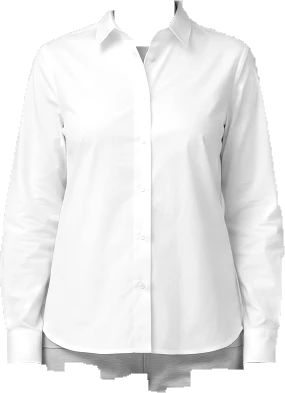
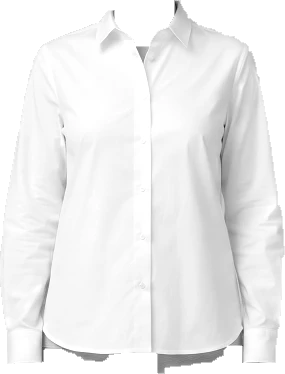
Personage: shirt piept onder trui of hoodie uit; restje basisshirt krijgt de kleur van de broek; strakkere lagen vrouw

diff --git a/js/personage.js b/js/personage.js
@@ -75,6 +75,33 @@ async function composePersonage(parts) {
     g.drawImage(await layerImg(set, 'shorts'), pos.x - v.x, pos.y - v.y);
     g.globalCompositeOperation = 'source-over';
   }
+  // Het grijze shirt van de basis kan langer zijn dan een trui of top. Wat ervan overblijft tussen
+  // de zoom en de broek krijgt de kleur van de broek, rok of jurk (zoals een tailleband).
+  const lower = list.find(l => l.slot === 'full') || list.find(l => l.slot === 'bottom');
+  if (lower) {
+    const tee = await baseTee(set);
+    if (tee) {
+      // alleen zo breed als de broek (of jurk) bovenaan is, anders lijkt het een rokje over de broek
+      const p = manifest.layers[lower.name];
+      const top = await layerTops(set, lower.name);
+      g.save();
+      g.beginPath();
+      g.rect(top.left - v.x, 0, top.right - top.left + 1, v.h);
+      g.clip();
+      g.drawImage(colorize(tee, tee, lower.color), 0, 0);
+      g.restore();
+      // wat van het basisshirt buiten de broek valt, weg (daar is achtergrond)
+      g.save();
+      g.beginPath();
+      g.rect(0, p.y - v.y - 40, top.left - v.x, 140);
+      g.rect(top.right - v.x + 1, p.y - v.y - 40, v.w, 140);
+      g.clip();
+      g.globalCompositeOperation = 'destination-out';
+      g.drawImage(tee, 0, 0);
+      g.restore();
+    }
+  }
+  const colored = {}; // per plek het ingekleurde stuk, voor het randje shirt onder de trui
   for (const l of list) {
     const img = await layerImg(set, l.name);
     const pos = manifest.layers[l.name];
@@ -96,10 +123,129 @@ async function composePersonage(parts) {
     tg.globalCompositeOperation = 'destination-in';
     tg.drawImage(img, 0, 0);
     g.drawImage(t, pos.x - v.x, pos.y - v.y);
+    colored[l.slot] = { canvas: t, name: l.name, pos };
+    // Shirt onder een trui, hoodie of vest: een randje laten uitpiepen onder de zoom.
+    if (l.slot === 'mid' && colored.base) await drawHemPeek(g, set, v, colored.base, colored.mid);
   }
   if (personageCache.size > 40) personageCache.delete(personageCache.keys().next().value);
   personageCache.set(key, c);
   return c;
+}
+
+// Een witte (grijs-witte) laag inkleuren: stof × kleur, met de plooien behouden.
+function colorize(img, shape, color) {
+  const t = document.createElement('canvas');
+  t.width = img.width; t.height = img.height;
+  const tg = t.getContext('2d');
+  tg.drawImage(img, 0, 0);
+  tg.globalCompositeOperation = 'multiply';
+  tg.fillStyle = color;
+  tg.fillRect(0, 0, t.width, t.height);
+  tg.globalCompositeOperation = 'soft-light';
+  tg.globalAlpha = .35;
+  tg.drawImage(img, 0, 0);
+  tg.globalAlpha = 1;
+  tg.globalCompositeOperation = 'destination-in';
+  tg.drawImage(shape, 0, 0);
+  return t;
+}
+
+// Het grijze T-shirt van de basis als losse laag (wit gemaakt), berekend uit de basis zelf:
+// grijze stof van het personage, behalve de short. Eén keer per personage.
+const teeCache = {};
+function baseTee(set) {
+  if (!(set.dir in teeCache)) {
+    teeCache[set.dir] = (async () => {
+      const { manifest } = set; const v = manifest.view;
+      const c = document.createElement('canvas'); c.width = v.w; c.height = v.h;
+      const g = c.getContext('2d'); g.drawImage(set.base, 0, 0);
+      const img = g.getImageData(0, 0, v.w, v.h); const d = img.data;
+      // de short eruit
+      const s = manifest.layers.shorts; let shorts = null;
+      if (s) { const sc = document.createElement('canvas'); sc.width = v.w; sc.height = v.h; const sg = sc.getContext('2d'); sg.drawImage(await layerImg(set, 'shorts'), s.x - v.x, s.y - v.y); shorts = sg.getImageData(0, 0, v.w, v.h).data; }
+      const lums = [];
+      for (let i = 0; i < d.length; i += 4) {
+        const r = d[i], gg = d[i+1], b = d[i+2], bright = (r + gg + b) / 3;
+        const grey = d[i+3] > 200 && Math.abs(r - b) < 16 && Math.abs(r - gg) < 14 && bright > 80 && bright < 218; // geen witte sokken
+        const y = (i / 4 / v.w) | 0;
+        if (!grey || (shorts && shorts[i+3] > 60) || y > v.h * .7) { d[i+3] = 0; continue; }
+        const lum = r * .3 + gg * .59 + b * .11; lums.push(lum);
+        d[i] = d[i+1] = d[i+2] = lum;
+      }
+      if (lums.length < 500) return null;
+      lums.sort((p, q) => p - q); const ref = lums[Math.floor(lums.length * .96)];
+      for (let i = 0; i < d.length; i += 4) if (d[i+3]) d[i] = d[i+1] = d[i+2] = Math.min(255, d[i] / ref * 255);
+      g.putImageData(img, 0, 0);
+      return c;
+    })();
+  }
+  return teeCache[set.dir];
+}
+
+// Hoe breed een broek, rok of jurk bovenaan is (linker- en rechterrand van de bovenste 30 rijen).
+const topCache = {};
+async function layerTops(set, name) {
+  const key = set.dir + name;
+  if (!topCache[key]) {
+    const img = await layerImg(set, name);
+    const pos = set.manifest.layers[name];
+    const c = document.createElement('canvas'); c.width = pos.w; c.height = pos.h;
+    const g = c.getContext('2d'); g.drawImage(img, 0, 0);
+    const rows = Math.min(30, pos.h);
+    const a = g.getImageData(0, 0, pos.w, rows).data;
+    let left = pos.w, right = 0;
+    for (let y = 0; y < rows; y++) for (let x = 0; x < pos.w; x++) if (a[(y * pos.w + x) * 4 + 3] > 128) { if (x < left) left = x; if (x > right) right = x; }
+    topCache[key] = { left: pos.x + left, right: pos.x + right };
+  }
+  return topCache[key];
+}
+
+// Per kolom de onderkant van een laag (in beeldcoördinaten), één keer berekend per laag.
+const hemCache = {};
+async function layerBottoms(set, name) {
+  const key = set.dir + name;
+  if (!hemCache[key]) {
+    const img = await layerImg(set, name);
+    const pos = set.manifest.layers[name];
+    const c = document.createElement('canvas'); c.width = pos.w; c.height = pos.h;
+    const g = c.getContext('2d'); g.drawImage(img, 0, 0);
+    const a = g.getImageData(0, 0, pos.w, pos.h).data;
+    const bottom = new Int32Array(pos.w).fill(-1);
+    for (let x = 0; x < pos.w; x++) for (let y = pos.h - 1; y >= 0; y--) if (a[(y * pos.w + x) * 4 + 3] > 128) { bottom[x] = pos.y + y; break; }
+    hemCache[key] = { x: pos.x, bottom };
+  }
+  return hemCache[key];
+}
+
+// Het shirt een stukje omlaag schuiven en alleen het deel net onder de zoom van de trui tonen.
+// Alleen bij het lijf (niet bij de mouwen), zodat het eruitziet als een shirt dat eronder uitkomt.
+const PEEK = 12; // zoveel pixels (op 1024) steekt het shirt uit
+async function drawHemPeek(g, set, v, base, mid) {
+  const b = await layerBottoms(set, base.name), m = await layerBottoms(set, mid.name);
+  // De zoom van het shirt: niet het allerlaagste puntje (losse pixels), maar waar het lijf ophoudt.
+  const sorted = [...b.bottom].filter(y => y >= 0).sort((p, q) => p - q);
+  const shirtHem = sorted[Math.floor(sorted.length * .8)];
+  const midHems = [...m.bottom].filter(y => y >= 0).sort((p, q) => p - q);
+  const midHem = midHems[Math.floor(midHems.length * .5)];
+  const cols = [];
+  for (let i = 0; i < b.bottom.length; i++) {
+    const x = b.x + i, mi = x - m.x;
+    // lijf: kolommen waar het shirt tot ongeveer de zoom komt (de mouwen houden veel hoger op)
+    if (Math.abs(b.bottom[i] - shirtHem) > 18 || mi < 0 || mi >= m.bottom.length) continue;
+    // en waar de trui ook echt een zoom heeft rond de hoogte van het lijf (geen mouw of losse pixel)
+    if (Math.abs(m.bottom[mi] - midHem) > 30) continue;
+    cols.push([x, m.bottom[mi], b.bottom[i]]);
+  }
+  if (cols.length < 20) return;
+  const shift = Math.max(...cols.map(([, mb, bb]) => mb - bb)) + PEEK;
+  if (shift <= PEEK - 4) return; // het shirt is al langer dan de trui: het steekt vanzelf al uit
+  g.save();
+  g.beginPath();
+  // van net onder de zoom van de trui tot de zoom van het (verschoven) shirt, hooguit een smal randje
+  for (const [x, mb, bb] of cols) g.rect(x - v.x, mb - v.y - 1, 1, Math.min(bb + shift - mb + 1, PEEK + 6));
+  g.clip();
+  g.drawImage(base.canvas, base.pos.x - v.x, base.pos.y - v.y + shift);
+  g.restore();
 }
 
 // HTML voor in de look: een leeg doek dat daarna getekend wordt.
